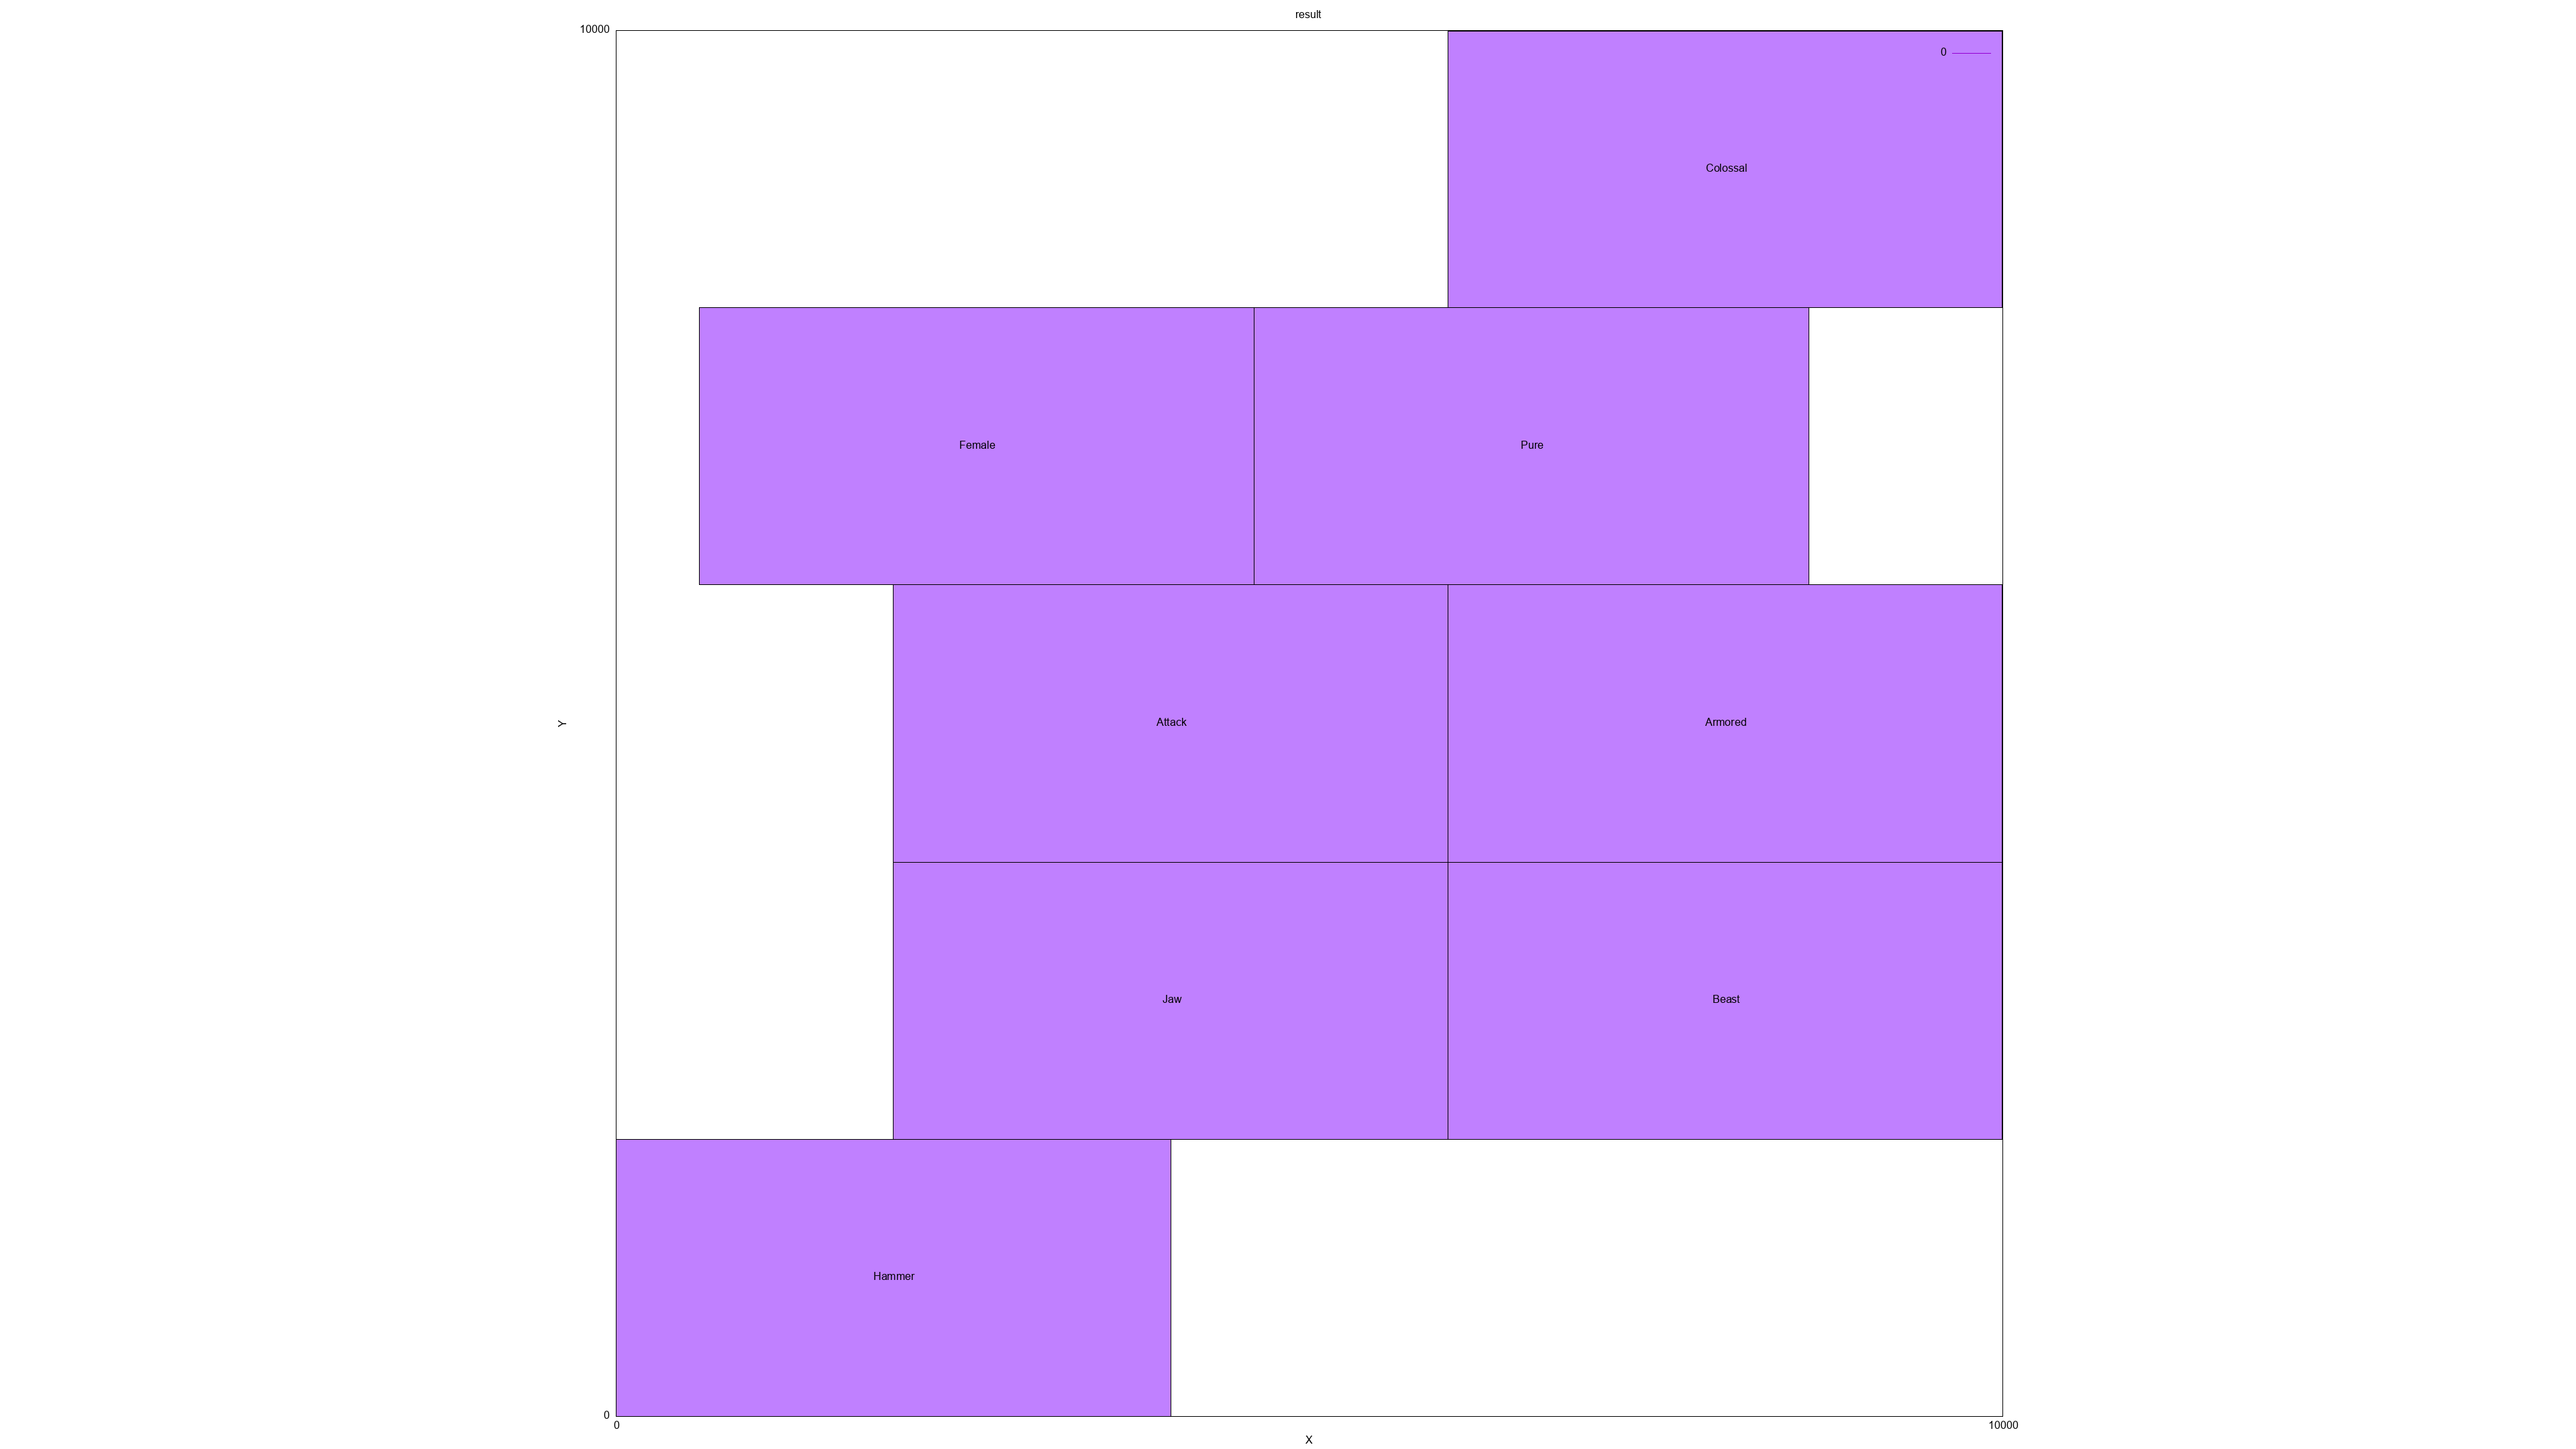
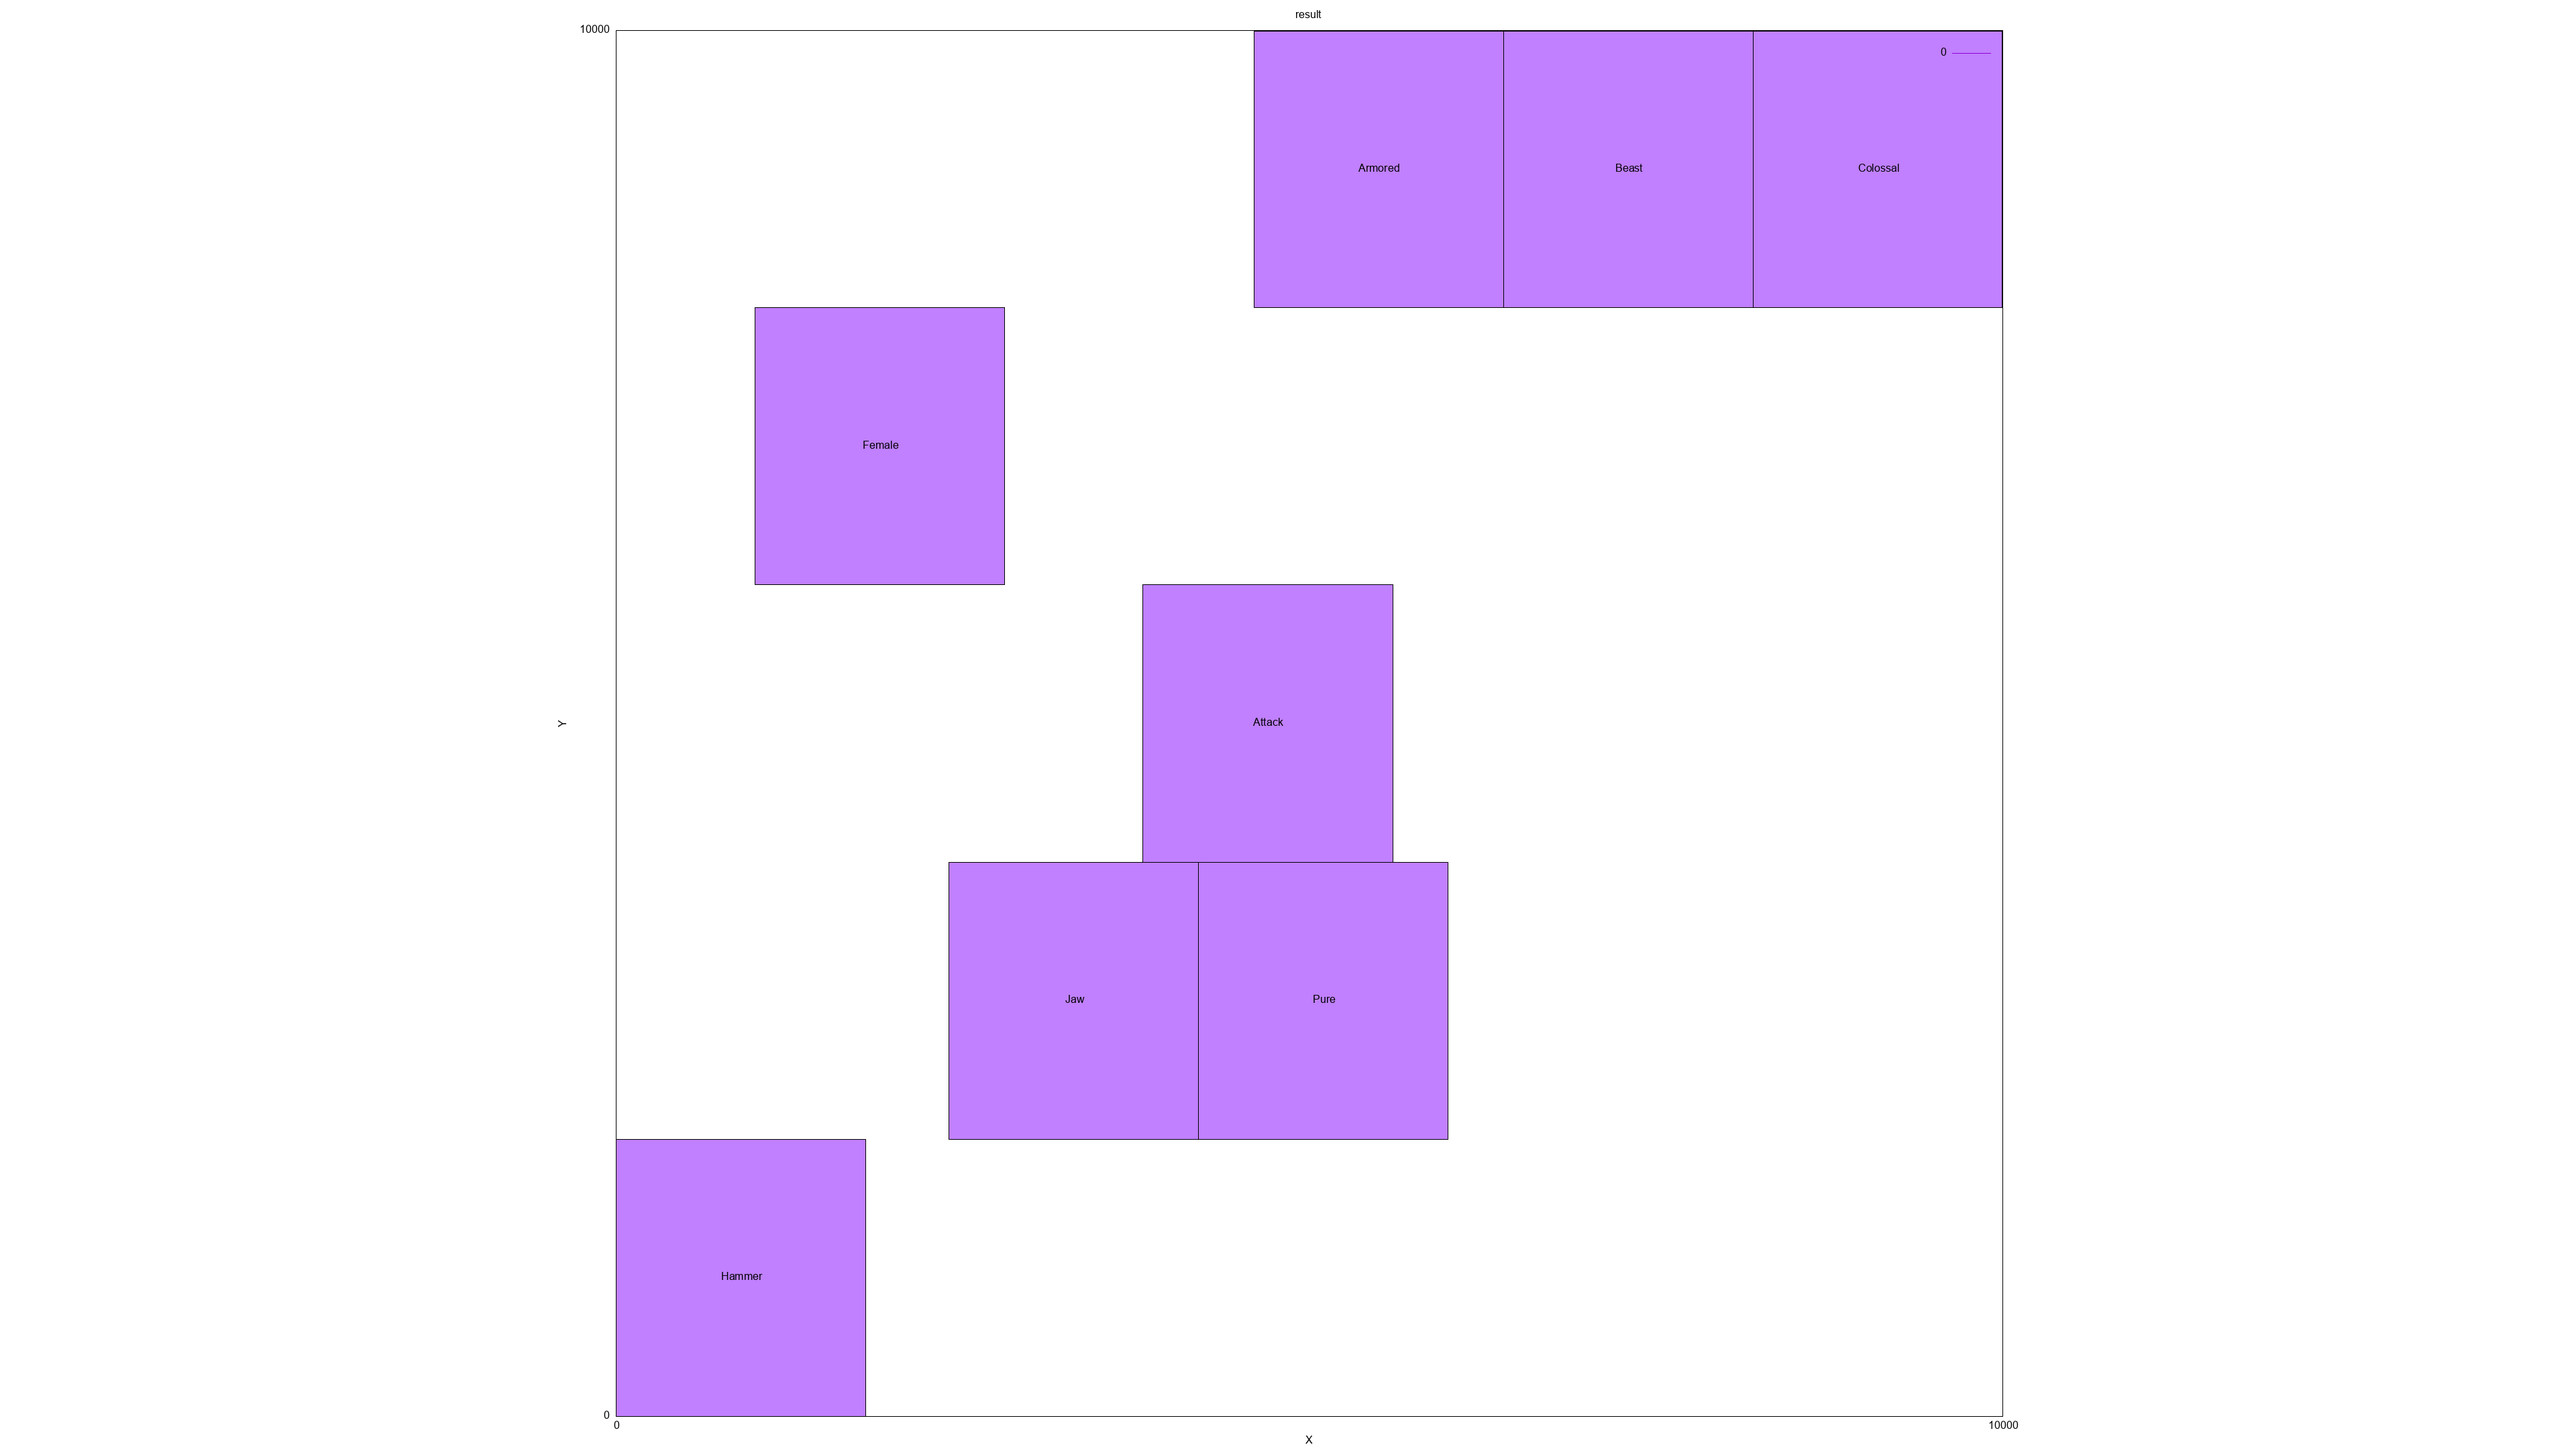
indep check

Changed region(s): [[0.3125, 0.0, 0.7812, 0.9926], [0.25, 0.2171, 0.3125, 0.4032]]

diff --git a/modules/Legalization.h b/modules/Legalization.h
@@ -9,6 +9,9 @@
 #include <cmath>
 #include <algorithm>
 #include <numeric>
+#include <limits>
+#include <thread>
+#include <mutex>
 
 struct loss_datapack_info {
     float quality = 9999.0;
@@ -47,26 +50,26 @@ public:
 };
 bool operator==(const BlockInfo& a, const BlockInfo& b);
 
+struct loss_info {
+    double loss = 0.0;
+    std::vector< BlockInfo> condition;
+};
+
 class legalization_method {
 private:
     std::vector< BlockInfo> placed; 
-    std::vector<BlockInfo> placed_mirror0;
     std::vector<BlockInfo> block_data_copy0;
     double abacus_max_loss = 0.0;
     unsigned int block_count = 0;
-    float abacus_current_cost = 999;
-    std::vector< BlockInfo> abacus_current_condition;
-    float abacus_cal_cost_output = 0.0;
-    std::vector< BlockInfo> abacus_cal_cost_placed_condition;
-    void cal_complex_loss(BlockInfo now_block);
-    void abacus_cal_cost(BlockInfo input_block, int if_atrow);
-    std::vector<BlockInfo> unpack_combined(std::vector<BlockInfo> combined_vector);
-    BlockInfo combine_block(BlockInfo block_new , BlockInfo block_placed);
+    loss_info cal_complex_loss(BlockInfo& now_block, std::vector< BlockInfo>& placed_mirror0); 
+    loss_info abacus_cal_cost(BlockInfo now_block, int if_atrow, std::vector< BlockInfo> placed_mirror0); 
+    std::vector<BlockInfo> unpack_combined(std::vector<BlockInfo>& combined_vector);
+    BlockInfo combine_block(BlockInfo& block_new , BlockInfo& block_placed);
 public:
     legalization_method() = default;
-    std::array<int, 2> overlap(BlockInfo blocka, BlockInfo blockb);
+    std::array<int, 2> overlap(BlockInfo& blocka, BlockInfo& blockb);
     void load_data(std::vector<BlockInfo> input_data);
-    void abacus();
+    void single_abacus();
     std::vector<std::array<int, 2>> output;
 };
 

diff --git a/main.cpp b/main.cpp
@@ -3,7 +3,7 @@
 //string input_file_name = "super1.def";
 string input_file_name = "case1.def";
 string output_file_name = "output.gp";
-unsigned int cell_width = 2;
+unsigned int cell_width = 9;
 unsigned int cell_height = 1;
 float quality_alpha = 1.0;
 unsigned int component_size[2] = {0,0};
